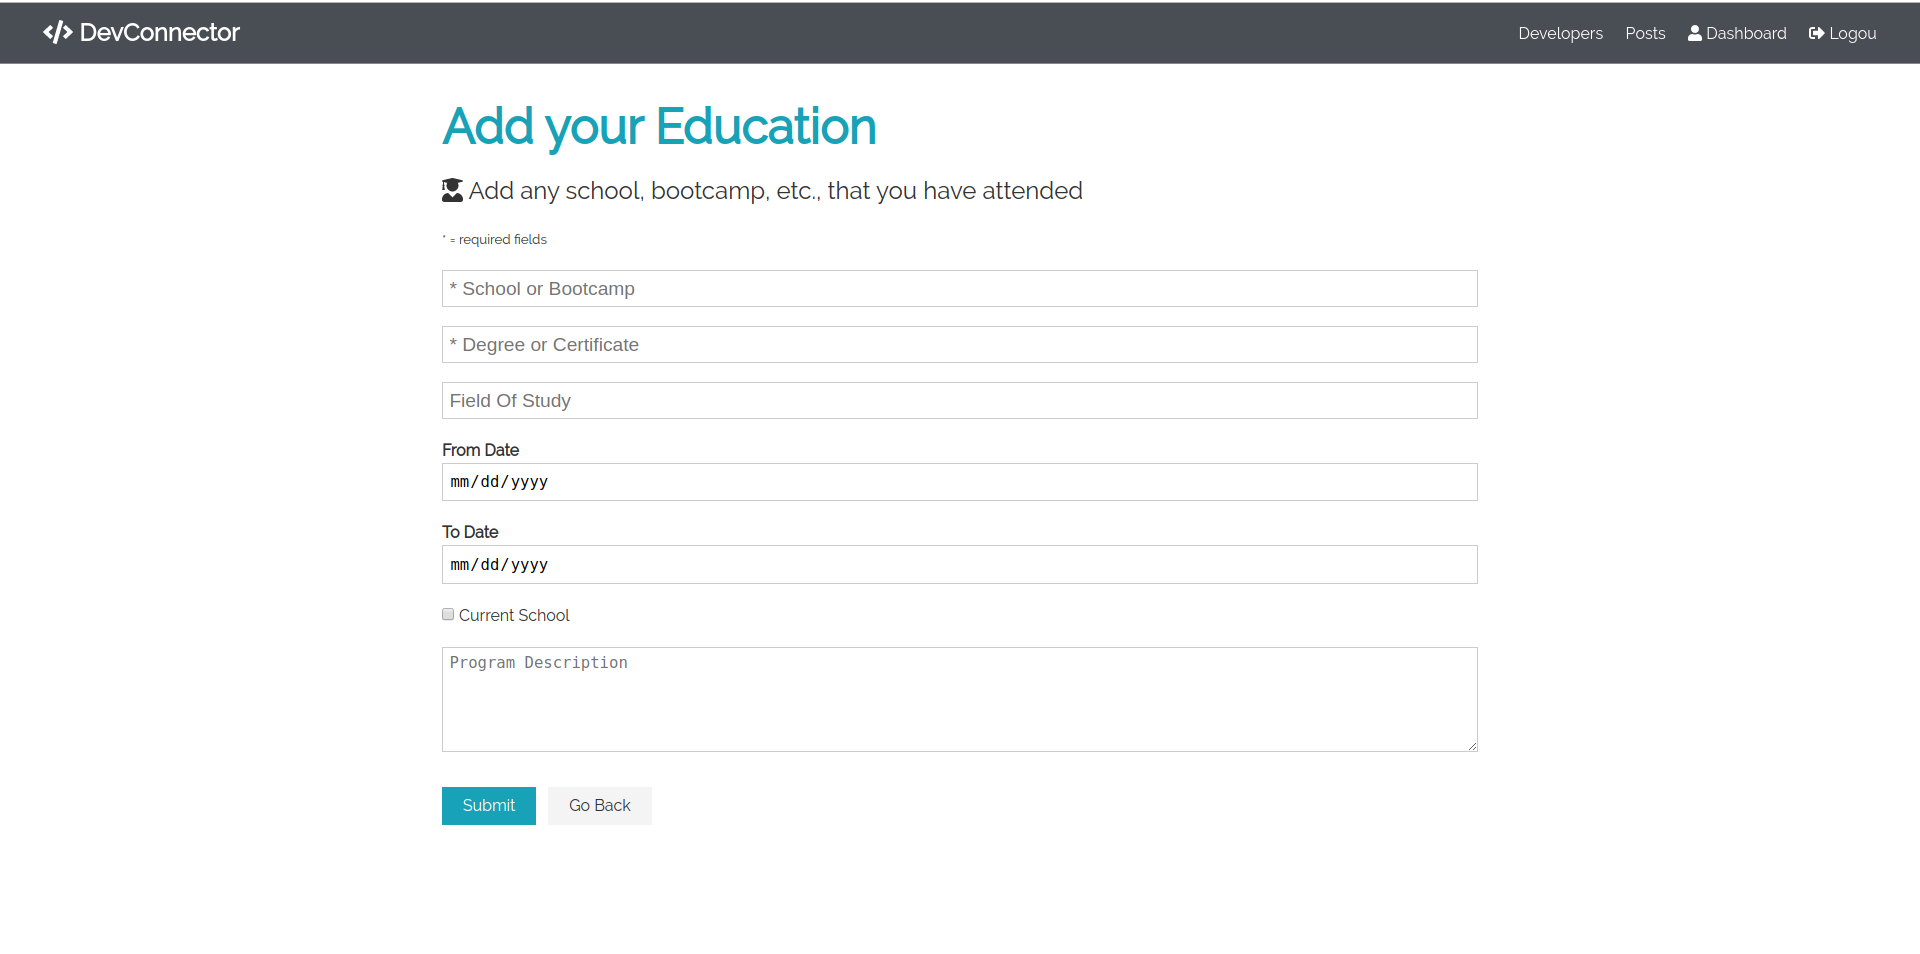
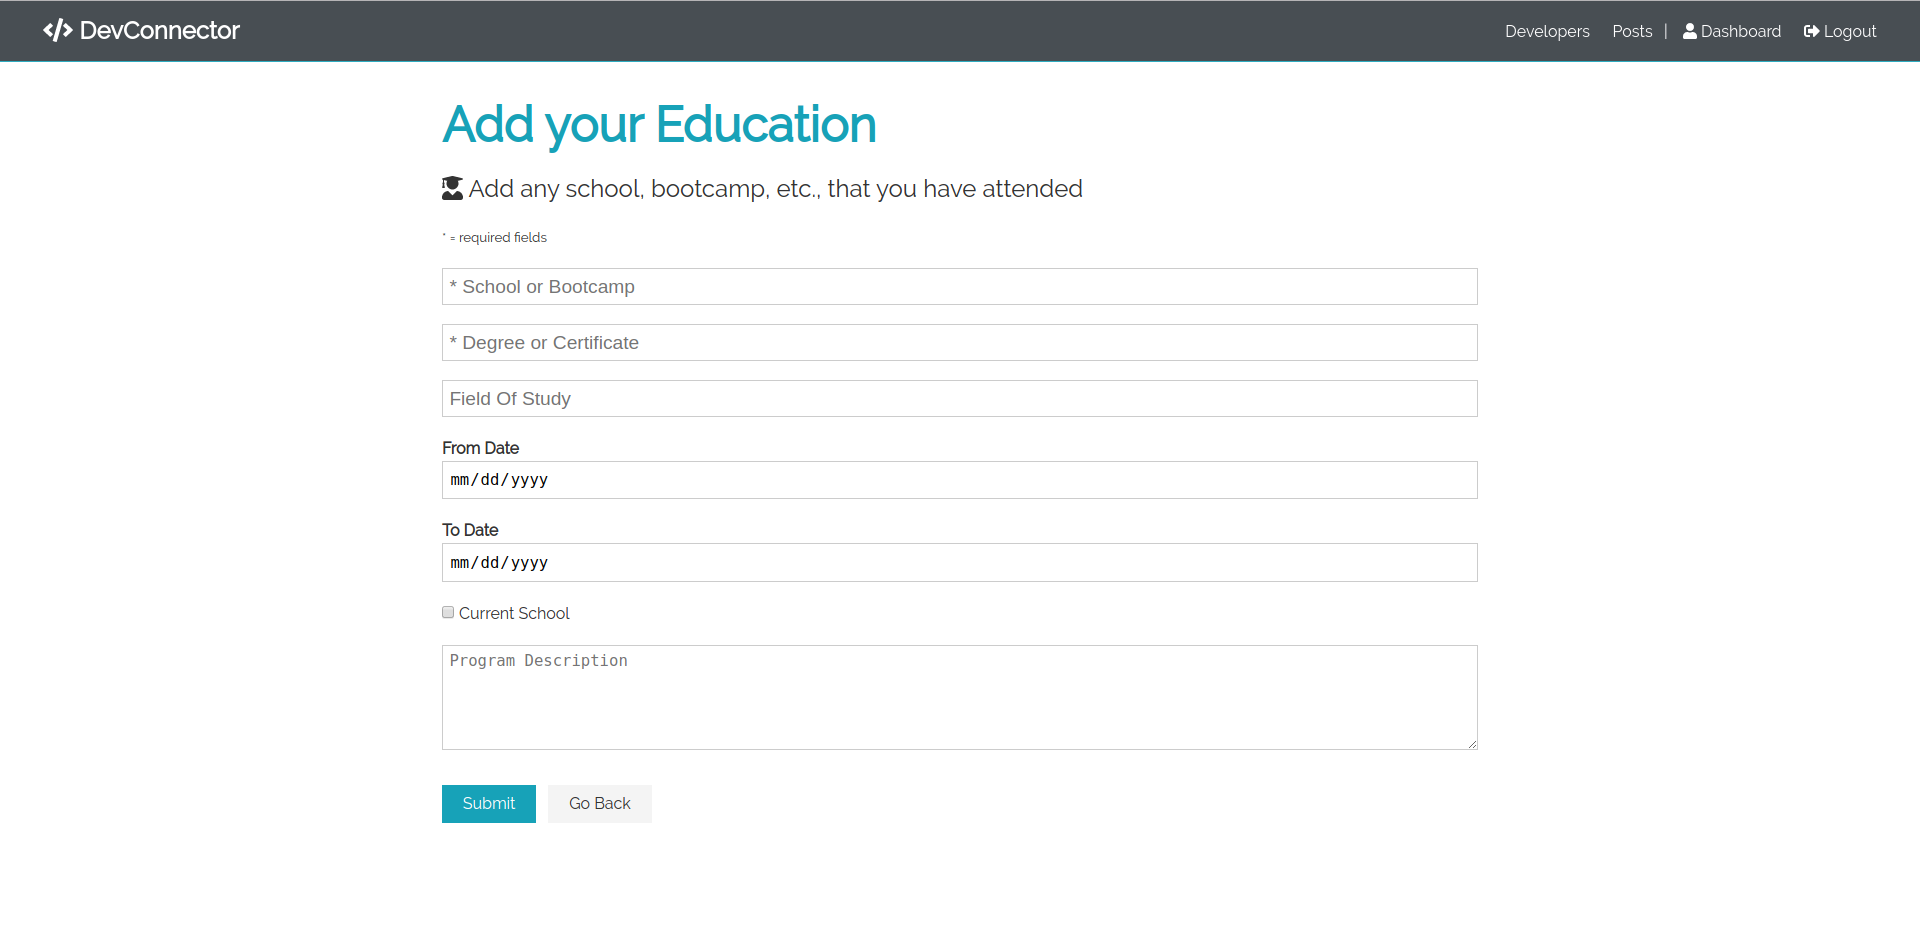
Update navbar and screenshots.

diff --git a/add-education.html b/add-education.html
@@ -28,6 +28,7 @@
             </li>
 
             <li>
+                |
                 <a href="dashboard.html">
                     <i class="fas fa-user"></i>
                     <span class="hide-sm">Dashboard</span>
@@ -37,7 +38,7 @@
             <li>
                 <a href="login.html">
                     <i class="fas fa-sign-out-alt"></i>
-                    <span class="hide-sm">Logou</span>
+                    <span class="hide-sm">Logout</span>
                 </a>
             </li>
         </ul>

diff --git a/add-experience.html b/add-experience.html
@@ -28,6 +28,7 @@
             </li>
 
             <li>
+                |
                 <a href="dashboard.html">
                     <i class="fas fa-user"></i>
                     <span class="hide-sm">Dashboard</span>
@@ -37,7 +38,7 @@
             <li>
                 <a href="login.html">
                     <i class="fas fa-sign-out-alt"></i>
-                    <span class="hide-sm">Logou</span>
+                    <span class="hide-sm">Logout</span>
                 </a>
             </li>
         </ul>

diff --git a/create-profile.html b/create-profile.html
@@ -28,6 +28,7 @@
             </li>
 
             <li>
+                |
                 <a href="dashboard.html">
                     <i class="fas fa-user"></i>
                     <span class="hide-sm">Dashboard</span>
@@ -37,7 +38,7 @@
             <li>
                 <a href="login.html">
                     <i class="fas fa-sign-out-alt"></i>
-                    <span class="hide-sm">Logou</span>
+                    <span class="hide-sm">Logout</span>
                 </a>
             </li>
         </ul>

diff --git a/dashboard.html b/dashboard.html
@@ -28,6 +28,7 @@
             </li>
 
             <li>
+                |
                 <a href="dashboard.html">
                     <i class="fas fa-user"></i>
                     <span class="hide-sm">Dashboard</span>
@@ -37,7 +38,7 @@
             <li>
                 <a href="login.html">
                     <i class="fas fa-sign-out-alt"></i>
-                    <span class="hide-sm">Logou</span>
+                    <span class="hide-sm">Logout</span>
                 </a>
             </li>
         </ul>
